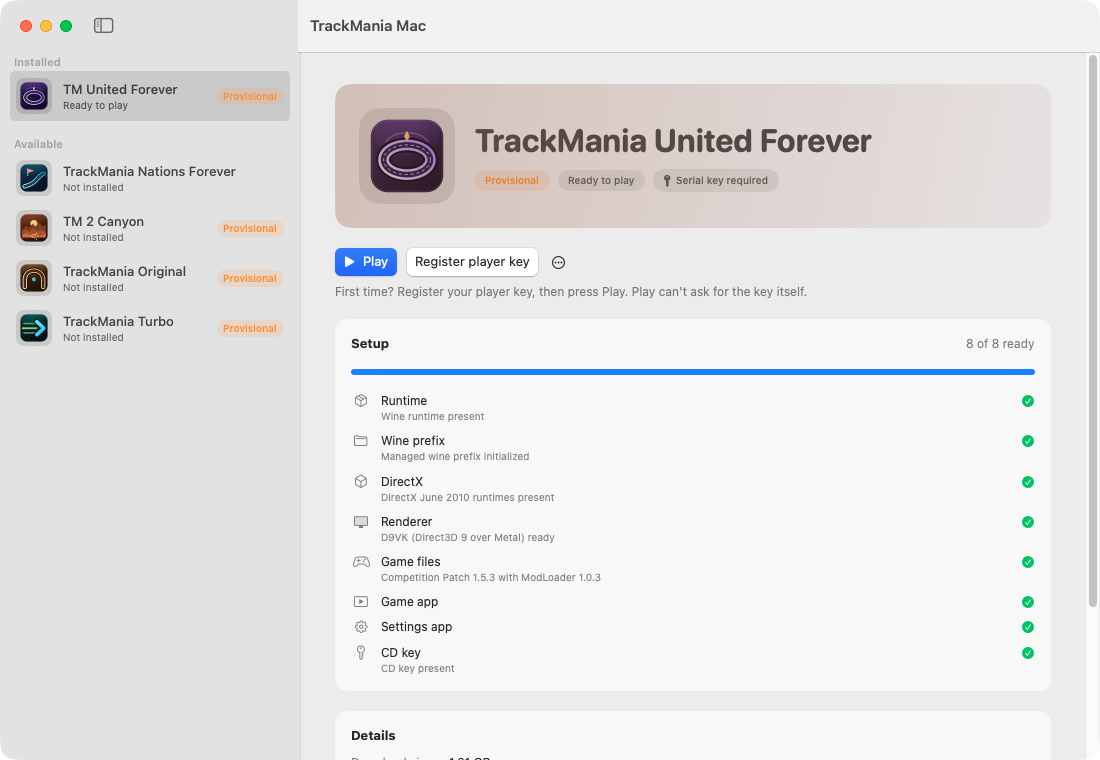
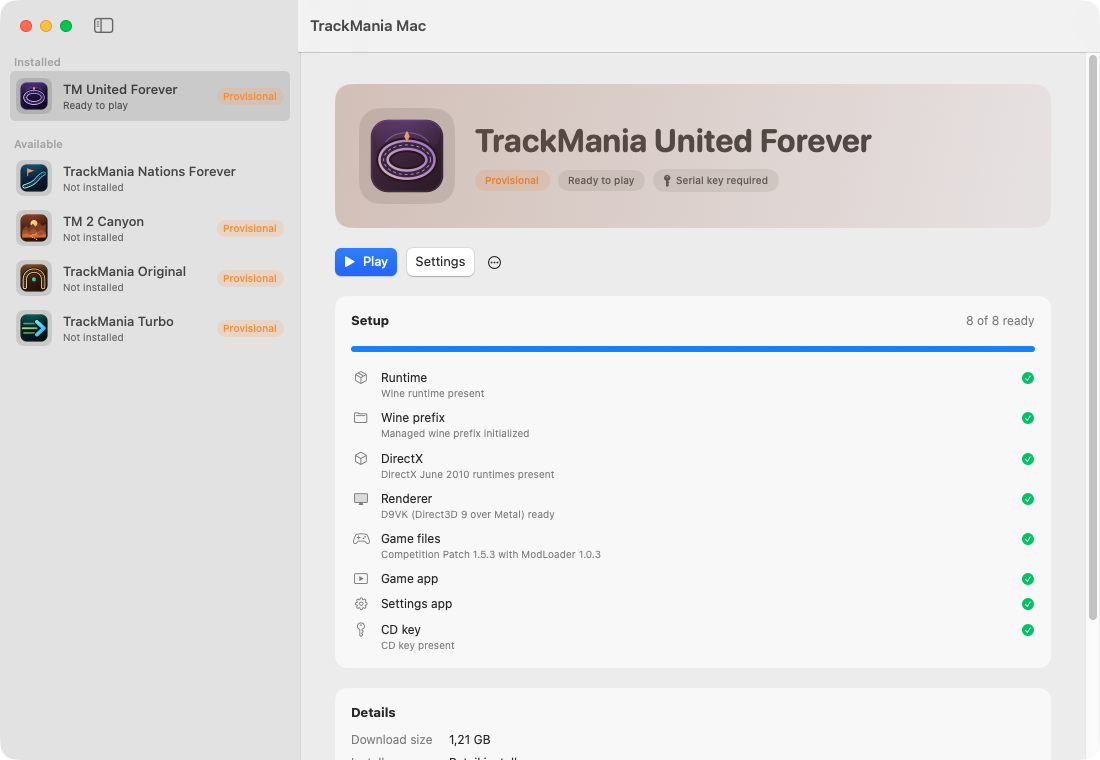
Hide Register player key once the CD key is present
After the key is registered the button and its "First time?" note only add
noise, so the hub shows the plain Settings button again once the backend
reports the cdKey item as ready.

Changed region(s): [[0.3091, 0.3329, 0.9582, 0.9079], [0.3091, 0.9382, 0.4636, 1.0], [0.9891, 0.7868, 1.0, 0.8171]]

diff --git a/src/swift/Sources/TrackManiaHub/HubModels.swift b/src/swift/Sources/TrackManiaHub/HubModels.swift
@@ -489,8 +489,9 @@ extension HubTitle {
 
     /// Titles that ask for a player key show a register button and a note. The key can only be
     /// entered in the game's own launcher, which the Settings app opens; Play cannot ask for it.
+    /// Once the backend reports the key as present, the plain Settings button returns.
     var showsRegisterKey: Bool {
-        requiresSerial == true && isInstalled && state.settingsApp?.ready == true
+        requiresSerial == true && isInstalled && state.settingsApp?.ready == true && state.cdKey?.ready != true
     }
 
     /// The app the register button opens: the Settings app, or nil when the button is hidden.

diff --git a/src/swift/Tests/TrackManiaHubTests/HubUITests.swift b/src/swift/Tests/TrackManiaHubTests/HubUITests.swift
@@ -235,6 +235,10 @@ final class HubUITests: XCTestCase {
         XCTAssertFalse(unlocked.needsCDKey)
         XCTAssertTrue(unlocked.playEnabled)
         XCTAssertEqual(unlocked.availability, "Ready to play")
+        // Registered: the register button and its note give way to Settings.
+        XCTAssertTrue(locked.showsRegisterKey)
+        XCTAssertFalse(unlocked.showsRegisterKey)
+        XCTAssertNil(unlocked.registerKeyTarget)
     }
 
     func testTitlesWithoutCDKeyProbeAreNeverGated() {

diff --git a/docs/hub-app.md b/docs/hub-app.md
@@ -17,7 +17,8 @@ named after the game. For Nations Forever they are:
 The hub opens those app wrappers through macOS; it does not replace them.
 For titles that need a serial (`requiresSerial`), the hub replaces the Settings button
 with "Register player key", which opens the same Settings app, and notes that the key is
-entered there before pressing Play.
+entered there before pressing Play. Once a title's `cdKey` item (below) is ready, the
+key is registered and the plain Settings button comes back.
 
 A title with `cd_key_in_nadeo_ini` in its registry entry (United Forever)
 also carries a `cdKey` item in `state` once its game files are installed. It is
